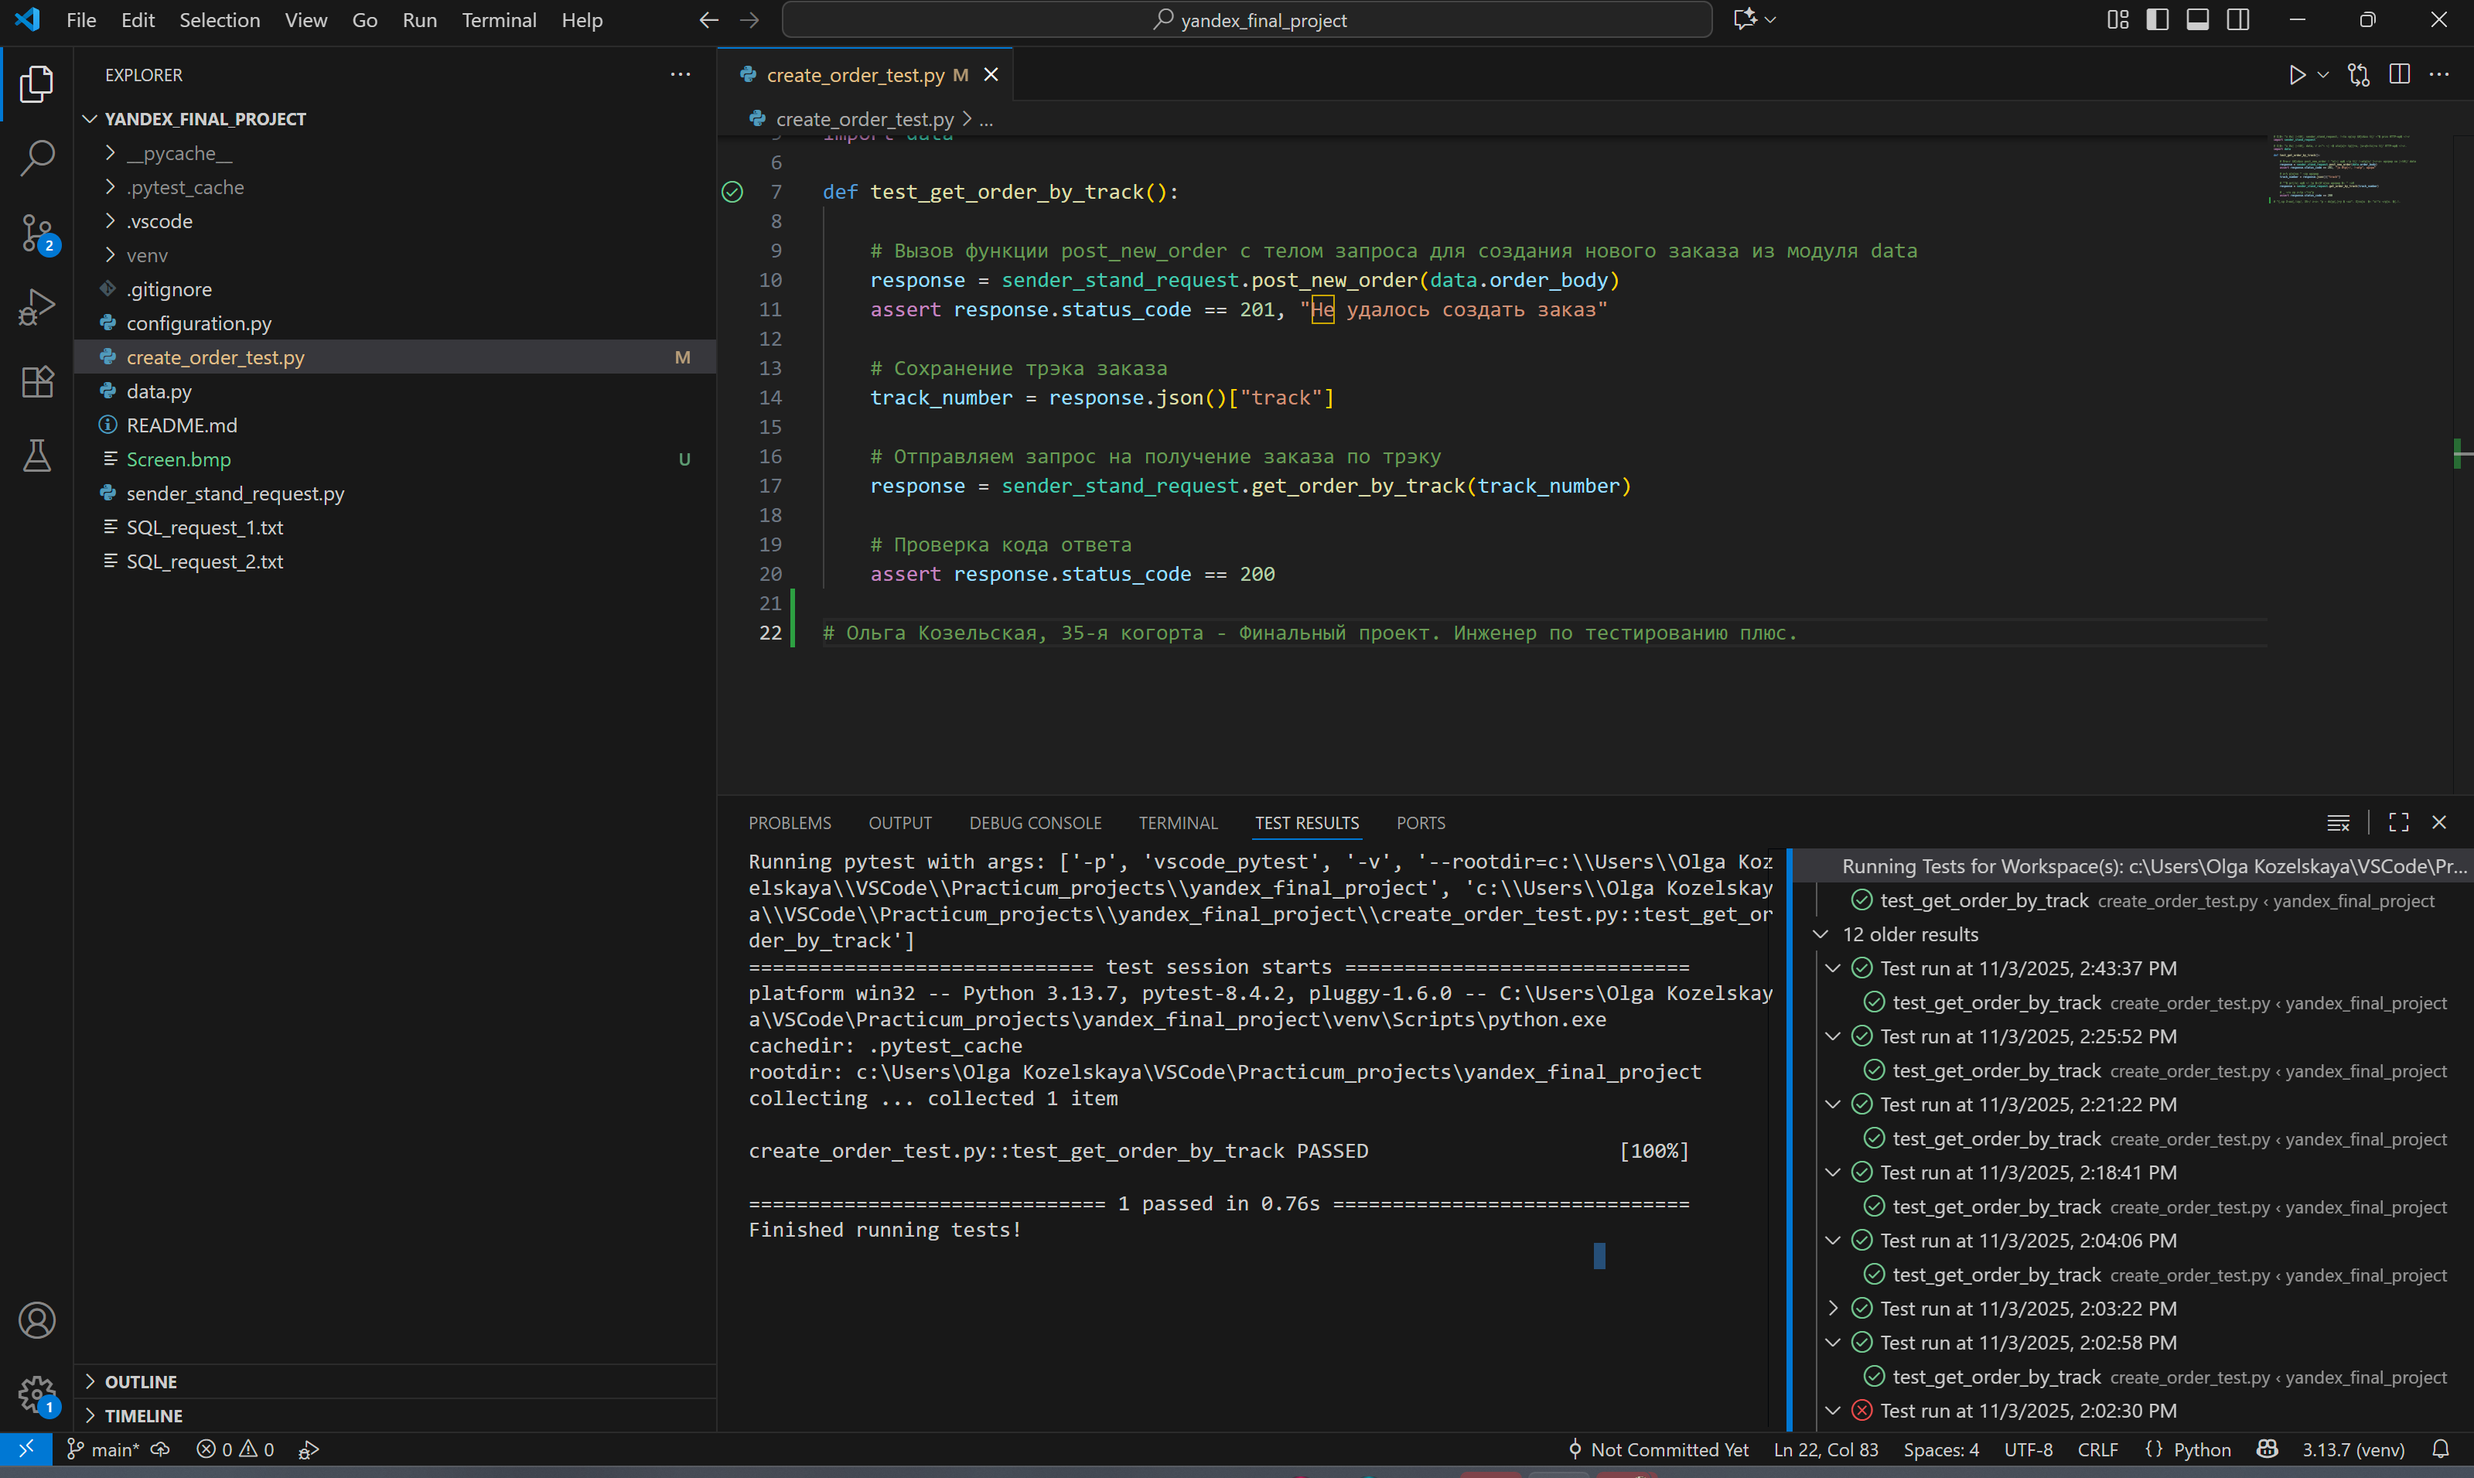
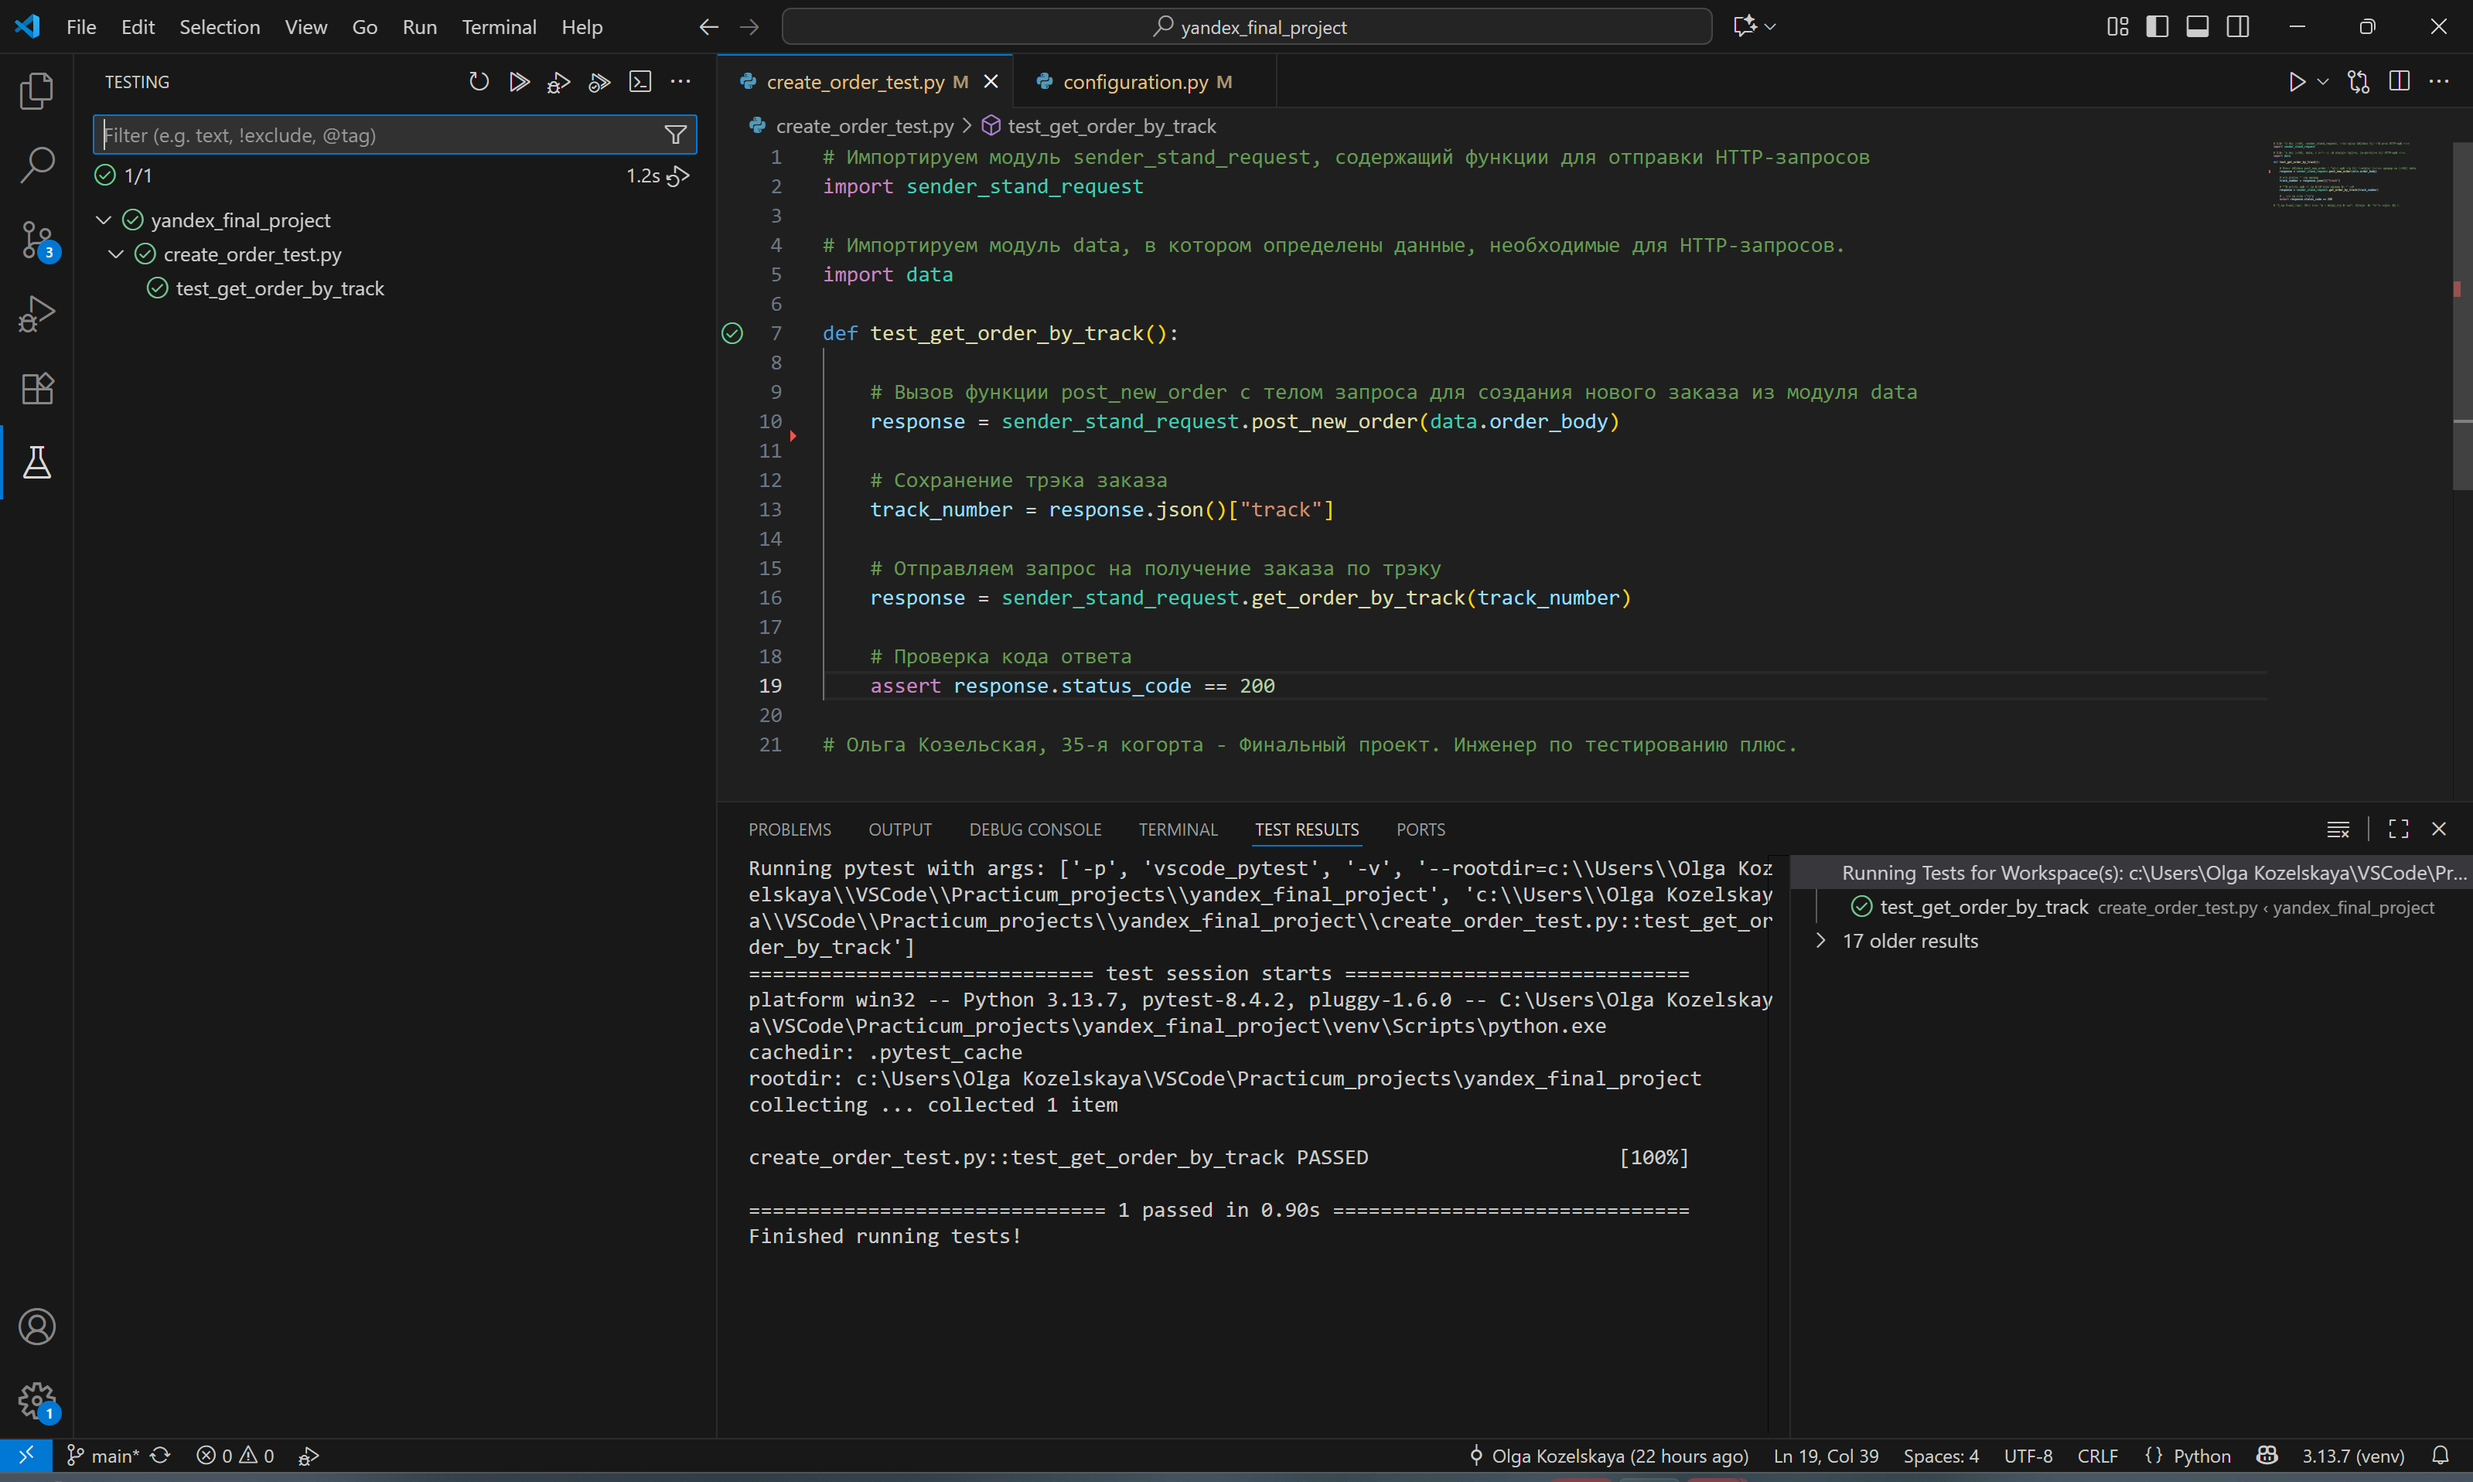
Removed intermediate assertion

diff --git a/create_order_test.py b/create_order_test.py
@@ -8,7 +8,6 @@ def test_get_order_by_track():
     
     # Вызов функции post_new_order с телом запроса для создания нового заказа из модуля data
     response = sender_stand_request.post_new_order(data.order_body)
-    assert response.status_code == 201, "Не удалось создать заказ"
 
     # Сохранение трэка заказа
     track_number = response.json()["track"]

diff --git a/configuration.py b/configuration.py
@@ -1,5 +1,5 @@
 # URL_SERVICE хранит базовый URL веб-сервиса, который используется для доступа к API
-URL_SERVICE = "https://9db3c8ed-b32c-4bd7-8ff1-92579f082ef3.serverhub.praktikum-services.ru"
+URL_SERVICE = "https://b36ae3e6-1c9c-444a-aaf5-75434904719f.serverhub.praktikum-services.ru"
 
 # Эндпоинт для создания заказа
 CREATE_ORDER_PATH = "/api/v1/orders"
